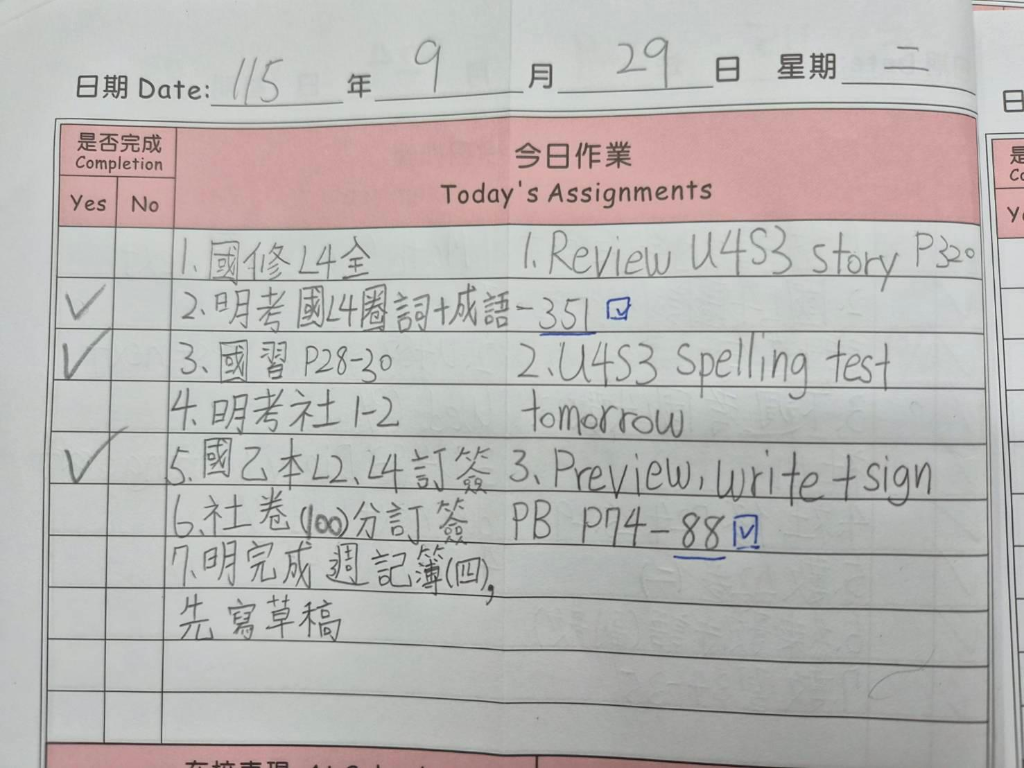
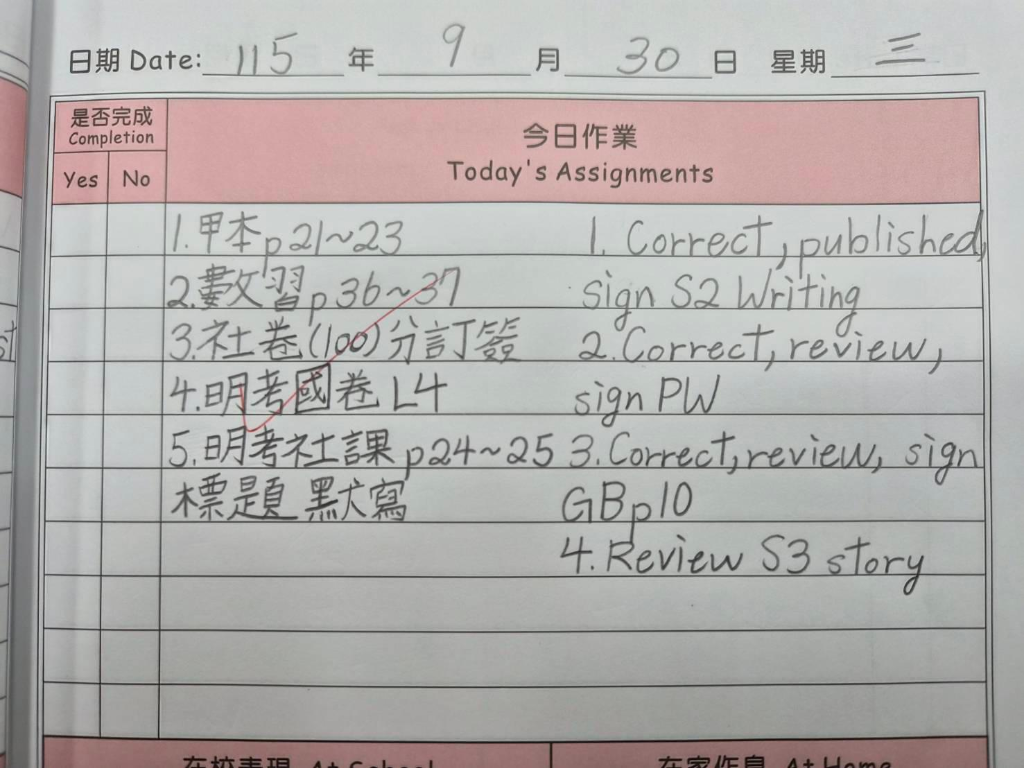
feat: update today's contact book to 9/30 (Wednesday) with assignments and photo

diff --git a/src/utils/homeworkEngine.js b/src/utils/homeworkEngine.js
@@ -135,35 +135,39 @@ export function getActiveHomeworkDate(today = new Date()) {
  * 預設基準範例聯絡簿資料（若尚無當日貼文或辨識，以此為優質展示）
  */
 export const DEFAULT_DEMO_HOMEWORK = {
-  date: '2026-09-29',
-  dateTaiwanStr: '115 年 9 月 29 日 (星期二)',
-  photoUrl: '/thumbnail-contact.jpg',
+  date: '2026-09-30',
+  dateTaiwanStr: '115 年 9 月 30 日 (星期三)',
+  photoUrl: '',
   chineseTasks: [
-    { id: 'c-1', text: '1. 國修 L4 全', completed: false, isExam: false },
-    { id: 'c-2', text: '2. 國習 P28-30', completed: true, isExam: false },
-    { id: 'c-3', text: '3. 明完成週記簿 (四)，先寫草稿', completed: false, isExam: false }
+    { id: 'c-1', text: '1. 甲本 p21~23', completed: false, isExam: false },
+    { id: 'c-2', text: '2. 數習 p36~37', completed: false, isExam: false },
+    { id: 'c-3', text: '3. 社卷 (100) 分訂簽', completed: false, isExam: false },
+    { id: 'c-4', text: '4. 明考國卷 L4', completed: false, isExam: true },
+    { id: 'c-5', text: '5. 明考社課 p24~25 標題默寫', completed: false, isExam: true }
   ],
   englishTasks: [
-    { id: 'e-1', text: '1. Review U4S3 story P320', completed: false, isExam: false },
-    { id: 'e-2', text: '2. Preview, write + sign PB P74-88', completed: true, isExam: false }
+    { id: 'e-1', text: '1. Correct, published, sign S2 Writing', completed: false, isExam: false },
+    { id: 'e-2', text: '2. Correct, review, sign PW', completed: false, isExam: false },
+    { id: 'e-3', text: '3. Correct, review, sign GB p10', completed: false, isExam: false },
+    { id: 'e-4', text: '4. Review S3 story', completed: false, isExam: false }
   ],
   notices: [
-    { id: 'n-1', text: '✍ 國乙本 L2, L4 訂簽', type: 'sign' },
-    { id: 'n-2', text: '✍ 社卷 100 分訂簽', type: 'sign' },
-    { id: 'n-3', text: '🎒 明日記得攜帶：週記草稿本', type: 'bring' }
+    { id: 'n-1', text: '✍ 社卷 (100) 分訂簽', type: 'sign' },
+    { id: 'n-2', text: '✍ 英文 S2 Writing 訂簽', type: 'sign' },
+    { id: 'n-3', text: '✍ 英文 PW 訂簽', type: 'sign' },
+    { id: 'n-4', text: '✍ 英文 GB p10 訂簽', type: 'sign' }
   ],
   upcomingExams: [
-    { id: 'ex-1', subject: '國語', scope: 'L4 圈詞 + 成語 (351)', date: '2026-09-30', urgent: true },
-    { id: 'ex-2', subject: 'English', scope: 'U4S3 Spelling Test', date: '2026-09-30', urgent: true },
-    { id: 'ex-3', subject: '社會', scope: '第一單元 1-2 小考', date: '2026-10-01', urgent: false }
+    { id: 'ex-1', subject: '國語', scope: '明考國卷 L4', date: '2026-10-01', urgent: true },
+    { id: 'ex-2', subject: '社會', scope: '明考社課 p24~25 標題默寫', date: '2026-10-01', urgent: true }
   ]
 };
 
 /**
  * 本地 Storage Key 定義
  */
-const STORAGE_KEY_HOMEWORK_STATE = 'dojo_homework_state_v5';
-const STORAGE_KEY_EXAM_RADAR = 'dojo_exam_radar_v5';
+const STORAGE_KEY_HOMEWORK_STATE = 'dojo_homework_state_v5_2';
+const STORAGE_KEY_EXAM_RADAR = 'dojo_exam_radar_v5_2';
 
 /**
  * 載入並整合自動全打勾規則之聯絡簿狀態

diff --git a/src/App.jsx b/src/App.jsx
@@ -167,7 +167,7 @@ export default function App() {
   // 本週小考雷達狀態
   const [exams, setExams] = useState(() => {
     try {
-      const saved = localStorage.getItem('dojo_exam_radar_v5');
+      const saved = localStorage.getItem('dojo_exam_radar_v5_2');
       return saved ? JSON.parse(saved) : DEFAULT_DEMO_HOMEWORK.upcomingExams;
     } catch (e) {
       return DEFAULT_DEMO_HOMEWORK.upcomingExams;
@@ -175,7 +175,7 @@ export default function App() {
   });
 
   useEffect(() => {
-    localStorage.setItem('dojo_exam_radar_v5', JSON.stringify(exams));
+    localStorage.setItem('dojo_exam_radar_v5_2', JSON.stringify(exams));
   }, [exams]);
 
   // 自 Supabase 雙軌載入：全域中繼索引 + 最近 14 天完整貼文
